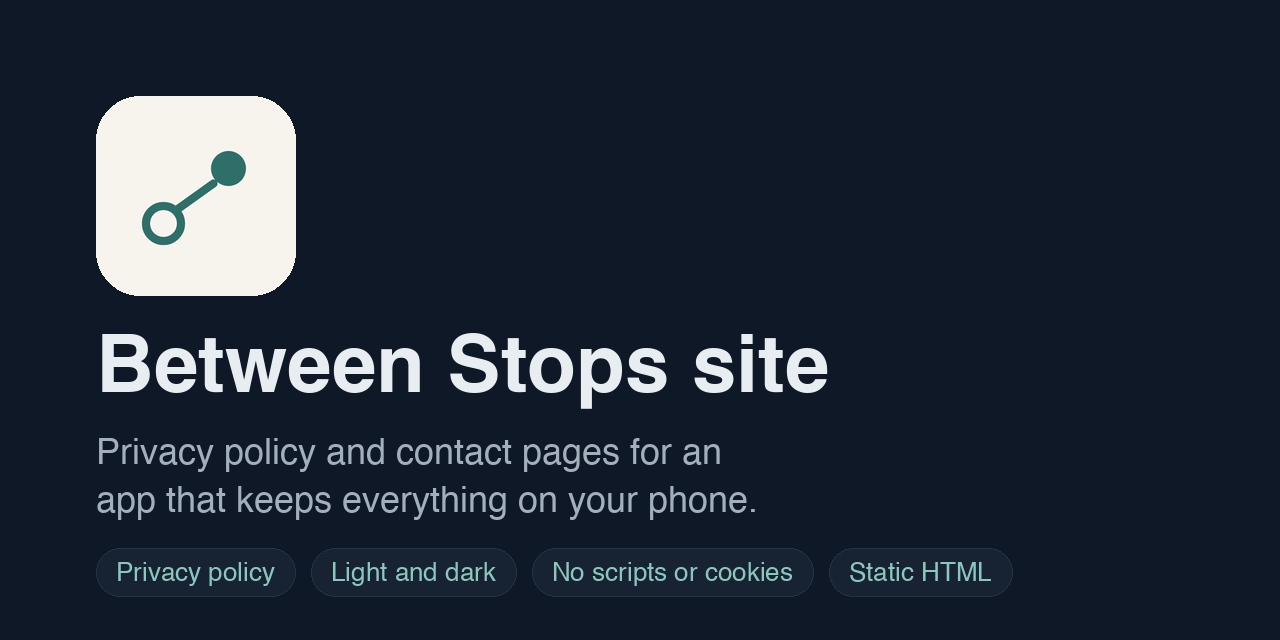
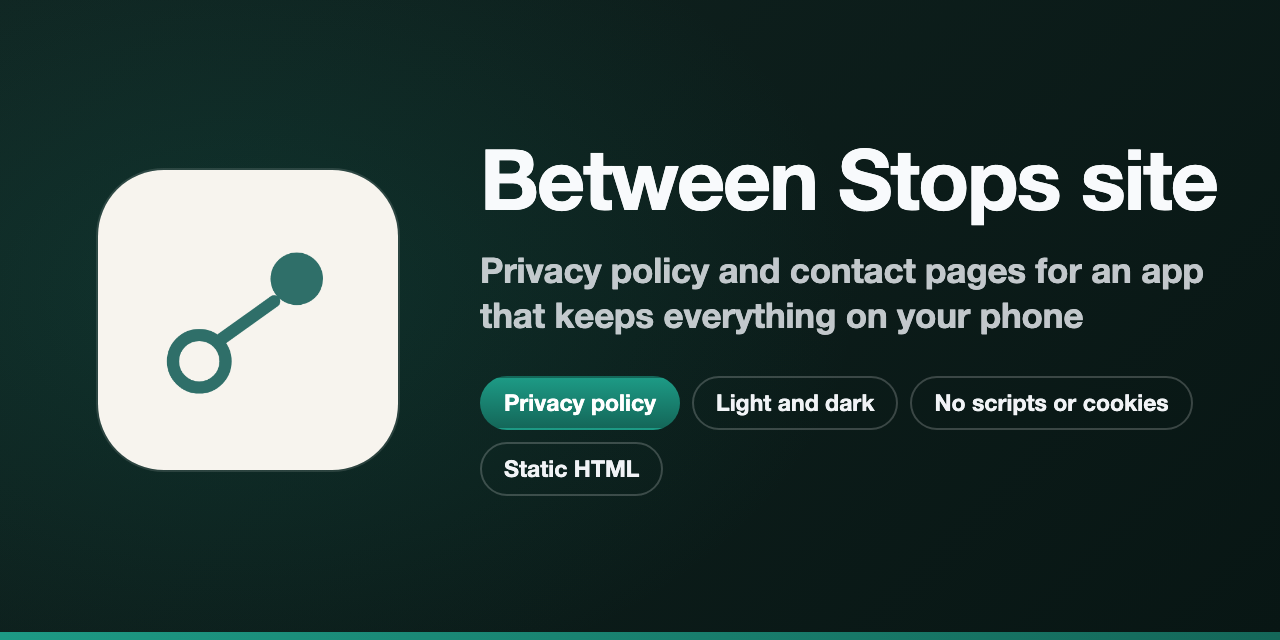
docs: draw the social preview with the shared brand layout
The preview keeps the app's own icon and now uses the shared layout. tools/brand/brand_kit.py replaces the old per-site Pillow script.

diff --git a/tools/brand/brand_kit.py b/tools/brand/brand_kit.py
@@ -1,0 +1,91 @@
+#!/usr/bin/env python3
+"""Draw the 1280x640 social preview in the shared layout: icon tile left, name, tagline,
+3 to 4 chips, a hue stripe along the bottom.
+
+  python3 tools/brand/brand_kit.py social --name NAME --tagline TEXT --chip A --chip B \
+      --icon ICON.png --hue 170 --out docs/assets/social-preview.png
+
+The icon is the project's own (PNG or SVG). Pick --hue from the icon's main colour.
+Needs headless Google Chrome (set CHROME= if it is elsewhere) and Pillow.
+Rendering is deterministic and the PNG carries no metadata.
+"""
+import argparse, colorsys, html, os, pathlib, subprocess, sys, tempfile
+from PIL import Image
+
+CHROME = os.environ.get("CHROME", "/Applications/Google Chrome.app/Contents/MacOS/Google Chrome")
+INK = "#F8FAFC"
+
+# ---- colour -----------------------------------------------------------------
+def _lum(rgb):
+    f = lambda c: c / 12.92 if c <= .03928 else ((c + .055) / 1.055) ** 2.4
+    r, g, b = (f(c) for c in rgb)
+    return .2126 * r + .7152 * g + .0722 * b
+def _hex(h, s, l):
+    r, g, b = colorsys.hls_to_rgb(h / 360, l, s)
+    return "#%02X%02X%02X" % (round(r * 255), round(g * 255), round(b * 255)), (r, g, b)
+def _contrast(rgb):  # against near-white ink
+    return (_lum((.97, .98, .99)) + .05) / (_lum(rgb) + .05)
+def palette(hue):
+    """(top, bottom, mid) hex. Same saturation, lightness 54/40; yellows and greens are
+    darkened just enough that the white glyph keeps 3.2:1 (top) and 4.5:1 (bottom)."""
+    s, lt, lb = .68, .55, .41
+    while _contrast(_hex(hue, s, lt)[1]) < 3.2 and lt > .30: lt -= .01
+    while _contrast(_hex(hue, s, lb)[1]) < 4.5 and lb > .20: lb -= .01
+    lb = min(lb, lt - .12)
+    return _hex(hue, s, lt)[0], _hex(hue, s, lb)[0], _hex(hue, s, (lt + lb) / 2)[0]
+def dark_bg(hue):
+    return _hex(hue, .38, .10)[0], _hex(hue, .45, .06)[0]
+
+# ---- rendering --------------------------------------------------------------
+def render(html_doc, w, h, out, transparent=False):
+    with tempfile.TemporaryDirectory() as td:
+        p = pathlib.Path(td) / "p.html"
+        p.write_text(html_doc)
+        shot = pathlib.Path(td) / "s.png"
+        cmd = [CHROME, "--headless=new", "--disable-gpu", "--hide-scrollbars", "--no-sandbox",
+               "--force-device-scale-factor=1", f"--window-size={w},{h}",
+               "--virtual-time-budget=3000", f"--screenshot={shot}", f"file://{p}"]
+        if transparent: cmd.insert(2, "--default-background-color=00000000")
+        subprocess.run(cmd, check=True, capture_output=True)
+        im = Image.open(shot).convert("RGBA" if transparent else "RGB")
+    # fresh image = no metadata chunks
+    clean = Image.new(im.mode, im.size); clean.paste(im)
+    pathlib.Path(out).parent.mkdir(parents=True, exist_ok=True)
+    clean.save(out, optimize=True)
+    return clean
+
+def make_social(name, tagline, chips, icon_svg_path, hue, out_png):
+    """1280x640, tile left, name, tagline, chips, hue stripe. Same layout for every repo."""
+    top, bot, mid = palette(hue); d1, d2 = dark_bg(hue)
+    chips = list(chips)[:4]
+    chip_html = "".join(f'<span class="c{" f" if i == 0 else ""}">{html.escape(c)}</span>' for i, c in enumerate(chips))
+    doc = f'''<!doctype html><meta charset=utf-8><style>
+*{{box-sizing:border-box;margin:0}}
+body{{width:1280px;height:640px;overflow:hidden;font-family:"Helvetica Neue",Helvetica,Arial,sans-serif;color:{INK};
+ background:radial-gradient(900px 600px at 18% 45%,{mid}33,transparent 70%),linear-gradient(135deg,{d1},{d2});position:relative}}
+.tile{{position:absolute;left:98px;top:170px;width:300px;height:300px;border-radius:22%;box-shadow:0 0 0 2px #ffffff1f}}
+.txt{{position:absolute;left:480px;top:0;width:740px;height:632px;display:flex;flex-direction:column;justify-content:center}}
+h1{{font-weight:800;letter-spacing:-.025em;line-height:1.02;white-space:nowrap;font-size:96px;margin-bottom:26px}}
+h1.wrap{{white-space:normal;font-size:68px;overflow-wrap:anywhere}}
+p{{font-size:35px;line-height:1.28;font-weight:600;color:#E3E6EBd9;margin-bottom:38px;letter-spacing:-.005em}}
+.chips{{display:flex;gap:12px;flex-wrap:wrap}}
+.c{{font-weight:700;font-size:23px;padding:11px 22px;border-radius:99px;border:2px solid #ffffff33;color:#F1F3F6}}
+.c.f{{background:linear-gradient(180deg,{top},{bot});border-color:transparent;color:#fff}}
+.bar{{position:absolute;left:0;right:0;bottom:0;height:8px;background:linear-gradient(90deg,{top},{bot})}}
+</style><img class=tile src="file://{pathlib.Path(icon_svg_path).resolve()}">
+<div class=txt><h1 id=n>{html.escape(name)}</h1><p>{html.escape(tagline)}</p><div class=chips>{chip_html}</div></div><div class=bar></div>
+<script>const h=document.getElementById('n');let s=96;while(h.scrollWidth>740&&s>60){{s-=2;h.style.fontSize=s+'px'}}
+if(h.scrollWidth>740){{h.className='wrap';h.innerHTML=h.textContent.replace(/-/g,'-<wbr>')}}</script>'''
+    return render(doc, 1280, 640, out_png)
+
+def main(argv=None):
+    ap = argparse.ArgumentParser(description=__doc__, formatter_class=argparse.RawDescriptionHelpFormatter)
+    sub = ap.add_subparsers(dest="cmd", required=True)
+    b = sub.add_parser("social"); b.add_argument("--name", required=True); b.add_argument("--tagline", required=True)
+    b.add_argument("--chip", action="append", default=[]); b.add_argument("--icon", required=True)
+    b.add_argument("--hue", type=int, required=True); b.add_argument("--out", default="docs/assets/social-preview.png")
+    n = ap.parse_args(argv)
+    make_social(n.name, n.tagline, n.chip, n.icon, n.hue, n.out)
+
+if __name__ == "__main__":
+    sys.exit(main())

diff --git a/README.md b/README.md
@@ -140,7 +140,7 @@ between-stops-site/
 ├── assets/                # 🎨 site.css and mark.svg (also the favicon)
 ├── docs/                  # 📚 setup, how it works, FAQ, troubleshooting
 │   └── assets/            # 🖼 diagram, screenshots, brand icon, social preview
-├── tools/                 # 🔧 check_site.py, gen_diagram.py, screenshots/
+├── tools/                 # 🔧 check_site.py, gen_diagram.py, brand/, screenshots/
 ├── .github/workflows/     # 🤖 ci.yml runs make check
 ├── Makefile               # ⚙ check, serve, diagram, screenshots, social
 ├── llms.txt               # 🤖 the site in one plain-text page for search tools

diff --git a/docs/setup.md b/docs/setup.md
@@ -54,9 +54,9 @@ the live page afterwards at
 
 ```bash
 make screenshots   # docs/assets/screenshots/
-make social        # docs/assets/brand/icon.png and social-preview.png
+make social        # docs/assets/social-preview.png, drawn by tools/brand/brand_kit.py from the site icon
 make diagram       # docs/assets/architecture-{light,dark}.svg
 ```
 
-The first two need network access once to install Playwright and download
+`make screenshots` needs network access once to install Playwright and download
 Chromium. The contact page is never photographed: it shows the support address.
